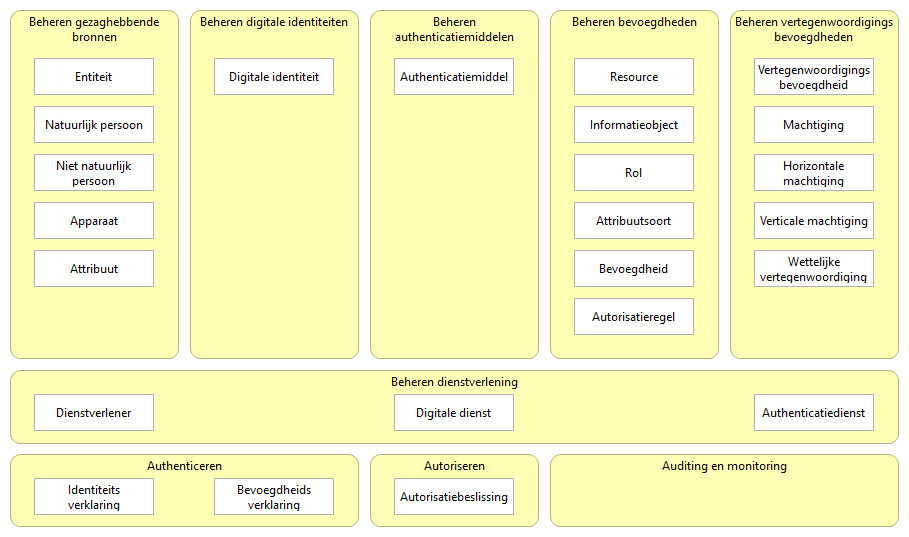
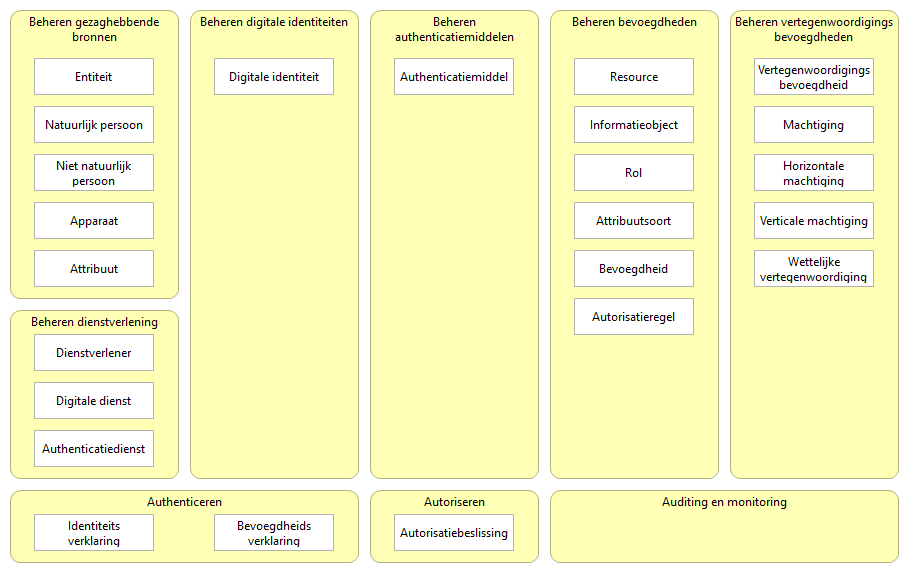
herschikking n.a.v. werksessie 13 december 2023

diff --git a/docs/id-3b66eec68cbc4ed8a552deca4e788391/views/id-d24214a9135947e980983cea632143d2.html b/docs/id-3b66eec68cbc4ed8a552deca4e788391/views/id-d24214a9135947e980983cea632143d2.html
@@ -39,26 +39,26 @@
 				  				<area shape="rect" coords="754,106,874,143" href="../elements/id-906f182647604ffc90107fdb1c8d46de.html"  target="element">
 				  				<area shape="rect" coords="754,154,874,191" href="../elements/id-145f9d6a34d947bda142eefaaf08c5ed.html"  target="element">
 
-				  		<area shape="rect" coords="730,10,899,359" href="../elements/id-c5998016874b4a3f9a80d62f09af3f33.html"  target="element">
-				  				<area shape="rect" coords="754,394,874,431" href="../elements/id-b176e501216a411aab3a570774c04761.html"  target="element">
-				  				<area shape="rect" coords="34,394,154,431" href="../elements/id-c266e0540ad64714932a780fe9e74037.html"  target="element">
-				  				<area shape="rect" coords="394,394,514,431" href="../elements/id-d128055e2a98447ea02185273849dac9.html"  target="element">
+				  		<area shape="rect" coords="730,10,899,479" href="../elements/id-c5998016874b4a3f9a80d62f09af3f33.html"  target="element">
+				  				<area shape="rect" coords="34,430,154,467" href="../elements/id-b176e501216a411aab3a570774c04761.html"  target="element">
+				  				<area shape="rect" coords="34,334,154,371" href="../elements/id-c266e0540ad64714932a780fe9e74037.html"  target="element">
+				  				<area shape="rect" coords="34,382,154,419" href="../elements/id-d128055e2a98447ea02185273849dac9.html"  target="element">
 
-				  		<area shape="rect" coords="10,370,899,444" href="../elements/id-256454e9e1434b858b4214c65b1cb3ab.html"  target="element">
+				  		<area shape="rect" coords="10,310,179,479" href="../elements/id-256454e9e1434b858b4214c65b1cb3ab.html"  target="element">
 				  				<area shape="rect" coords="34,202,154,239" href="../elements/id-159f656f2b5a479caf1624304c5bfe25.html"  target="element">
 				  				<area shape="rect" coords="34,154,154,191" href="../elements/id-202b003ac7d149efbd8a7248b58b744f.html"  target="element">
 				  				<area shape="rect" coords="34,106,154,143" href="../elements/id-b9b65d81740f41ce80c178d740b5dafa.html"  target="element">
 				  				<area shape="rect" coords="34,58,154,95" href="../elements/id-797830dc4f51491caf773ed85703e466.html"  target="element">
 				  				<area shape="rect" coords="34,250,154,287" href="../elements/id-d766d65c0ea14ecc9e01f99938d0b61b.html"  target="element">
 
-				  		<area shape="rect" coords="10,10,179,359" href="../elements/id-9786d6dbbd44482c97d2ac83bf79bd38.html"  target="element">
-				  				<area shape="rect" coords="394,478,514,515" href="../elements/id-0e6a68545b2d470d841b82aa5e05d4a5.html"  target="element">
+				  		<area shape="rect" coords="10,10,179,299" href="../elements/id-9786d6dbbd44482c97d2ac83bf79bd38.html"  target="element">
+				  				<area shape="rect" coords="394,514,514,551" href="../elements/id-0e6a68545b2d470d841b82aa5e05d4a5.html"  target="element">
 
-				  		<area shape="rect" coords="370,454,539,527" href="../elements/id-b750feb34d9c40588f9443c33145b59e.html"  target="element">
+				  		<area shape="rect" coords="370,490,539,563" href="../elements/id-b750feb34d9c40588f9443c33145b59e.html"  target="element">
 				  				<area shape="rect" coords="214,58,334,95" href="../elements/id-9e14841bf7a34845a4465fb9aa96cc53.html"  target="element">
 
-				  		<area shape="rect" coords="190,10,359,359" href="../elements/id-079caeb56ec2440cad449a57741e2837.html"  target="element">
-				  		<area shape="rect" coords="550,454,899,527" href="../elements/id-89cae607ed114aa9b258920260a4499c.html"  target="element">
+				  		<area shape="rect" coords="190,10,359,479" href="../elements/id-079caeb56ec2440cad449a57741e2837.html"  target="element">
+				  		<area shape="rect" coords="550,490,899,563" href="../elements/id-89cae607ed114aa9b258920260a4499c.html"  target="element">
 				  				<area shape="rect" coords="574,250,694,287" href="../elements/id-6ed7f3d944764c60a45fe6780a041a42.html"  target="element">
 				  				<area shape="rect" coords="574,202,694,239" href="../elements/id-7417b19f5c21447d8bf281baf4315b20.html"  target="element">
 				  				<area shape="rect" coords="574,154,694,191" href="../elements/id-4d32e4b7ef9c4a85acfa2c562ad218d2.html"  target="element">
@@ -66,14 +66,14 @@
 				  				<area shape="rect" coords="574,58,694,95" href="../elements/id-276320a6bad14e10a39ac2bcfcd13178.html"  target="element">
 				  				<area shape="rect" coords="574,298,694,335" href="../elements/id-7a15da44f51b45d0b7b2d1449ea8def3.html"  target="element">
 
-				  		<area shape="rect" coords="550,10,719,359" href="../elements/id-83db5a52a2914474a04a7152fa9d12e0.html"  target="element">
-				  				<area shape="rect" coords="214,478,334,515" href="../elements/id-1cb3ac18cb83432ebe33dacfbd3d2832.html"  target="element">
-				  				<area shape="rect" coords="34,478,154,515" href="../elements/id-f51d4497b87b4751842effe518b903d5.html"  target="element">
+				  		<area shape="rect" coords="550,10,719,479" href="../elements/id-83db5a52a2914474a04a7152fa9d12e0.html"  target="element">
+				  				<area shape="rect" coords="214,514,334,551" href="../elements/id-1cb3ac18cb83432ebe33dacfbd3d2832.html"  target="element">
+				  				<area shape="rect" coords="34,514,154,551" href="../elements/id-f51d4497b87b4751842effe518b903d5.html"  target="element">
 
-				  		<area shape="rect" coords="10,454,359,527" href="../elements/id-71518055a4194c55844b0ed040dacbe2.html"  target="element">
+				  		<area shape="rect" coords="10,490,359,563" href="../elements/id-71518055a4194c55844b0ed040dacbe2.html"  target="element">
 				  				<area shape="rect" coords="394,58,514,95" href="../elements/id-4145089decc343f1b8a35540703eb738.html"  target="element">
 
-				  		<area shape="rect" coords="370,10,539,359" href="../elements/id-fe587c1bae3c453285eccb764194ced3.html"  target="element">
+				  		<area shape="rect" coords="370,10,539,479" href="../elements/id-fe587c1bae3c453285eccb764194ced3.html"  target="element">
 
 			   </map>
 

diff --git a/docs/id-3b66eec68cbc4ed8a552deca4e788391/views/id-f14d78e817cf494cabe940d8c59f8a4e.html b/docs/id-3b66eec68cbc4ed8a552deca4e788391/views/id-f14d78e817cf494cabe940d8c59f8a4e.html
@@ -34,24 +34,24 @@
 			   <img class="diagram" src="../images/id-f14d78e817cf494cabe940d8c59f8a4e.png" alt="Functiemodel met standaarden" usemap="#id-f14d78e817cf494cabe940d8c59f8a4emap"/>
 			   <map name="id-f14d78e817cf494cabe940d8c59f8a4emap">
 				  		<area shape="rect" coords="778,10,959,419" href="../elements/id-c5998016874b4a3f9a80d62f09af3f33.html"  target="element">
-				  		<area shape="rect" coords="10,430,959,540" href="../elements/id-256454e9e1434b858b4214c65b1cb3ab.html"  target="element">
-				  		<area shape="rect" coords="10,10,191,419" href="../elements/id-9786d6dbbd44482c97d2ac83bf79bd38.html"  target="element">
-				  		<area shape="rect" coords="394,550,574,899" href="../elements/id-b750feb34d9c40588f9443c33145b59e.html"  target="element">
+				  		<area shape="rect" coords="10,226,191,419" href="../elements/id-256454e9e1434b858b4214c65b1cb3ab.html"  target="element">
+				  		<area shape="rect" coords="10,10,191,215" href="../elements/id-9786d6dbbd44482c97d2ac83bf79bd38.html"  target="element">
+				  		<area shape="rect" coords="395,430,575,779" href="../elements/id-b750feb34d9c40588f9443c33145b59e.html"  target="element">
 				  				<area shape="rect" coords="226,118,346,173" href="../elements/id-ea96d55372da4381a76adfcfeb4e7a69.html"  target="element">
 				  				<area shape="rect" coords="226,46,346,101" href="../elements/id-d195120a84814ba88a274e8402d2bf19.html"  target="element">
 
 				  		<area shape="rect" coords="202,10,383,419" href="../elements/id-079caeb56ec2440cad449a57741e2837.html"  target="element">
-				  		<area shape="rect" coords="586,550,958,899" href="../elements/id-89cae607ed114aa9b258920260a4499c.html"  target="element">
+				  		<area shape="rect" coords="587,430,959,779" href="../elements/id-89cae607ed114aa9b258920260a4499c.html"  target="element">
 				  		<area shape="rect" coords="586,10,767,419" href="../elements/id-83db5a52a2914474a04a7152fa9d12e0.html"  target="element">
-				  				<area shape="rect" coords="226,730,346,785" href="../elements/id-7470e5e65f3d4f208fe8a0f4f541ffe9.html"  target="element">
-				  				<area shape="rect" coords="46,730,166,785" href="../elements/id-b2cd04660195460bb1efd59d273eb609.html"  target="element">
-				  				<area shape="rect" coords="46,802,166,857" href="../elements/id-ea960156be254aee8b241e6e79f30d8c.html"  target="element">
-				  				<area shape="rect" coords="46,586,166,641" href="../elements/id-cbfc2e66e7a241e9a85294c05067f4fc.html"  target="element">
-				  				<area shape="rect" coords="46,658,166,713" href="../elements/id-67f687b1591741afbec97c61e754694b.html"  target="element">
-				  				<area shape="rect" coords="226,586,346,641" href="../elements/id-cce501616f9d4d9e95e14f6e725098b5.html"  target="element">
-				  				<area shape="rect" coords="226,658,346,713" href="../elements/id-5d2511feb7e7472d93d2e0db27457b7e.html"  target="element">
+				  				<area shape="rect" coords="227,610,347,665" href="../elements/id-7470e5e65f3d4f208fe8a0f4f541ffe9.html"  target="element">
+				  				<area shape="rect" coords="47,610,167,665" href="../elements/id-b2cd04660195460bb1efd59d273eb609.html"  target="element">
+				  				<area shape="rect" coords="47,682,167,737" href="../elements/id-ea960156be254aee8b241e6e79f30d8c.html"  target="element">
+				  				<area shape="rect" coords="47,466,167,521" href="../elements/id-cbfc2e66e7a241e9a85294c05067f4fc.html"  target="element">
+				  				<area shape="rect" coords="47,538,167,593" href="../elements/id-67f687b1591741afbec97c61e754694b.html"  target="element">
+				  				<area shape="rect" coords="227,466,347,521" href="../elements/id-cce501616f9d4d9e95e14f6e725098b5.html"  target="element">
+				  				<area shape="rect" coords="227,538,347,593" href="../elements/id-5d2511feb7e7472d93d2e0db27457b7e.html"  target="element">
 
-				  		<area shape="rect" coords="10,550,382,899" href="../elements/id-71518055a4194c55844b0ed040dacbe2.html"  target="element">
+				  		<area shape="rect" coords="11,430,383,779" href="../elements/id-71518055a4194c55844b0ed040dacbe2.html"  target="element">
 				  				<area shape="rect" coords="418,118,538,173" href="../elements/id-9ce6a7b4ca1f4ab5a357b87721bfe527.html"  target="element">
 				  				<area shape="rect" coords="418,46,538,101" href="../elements/id-8bfadaec74214885b2cfe62b7eb1f86c.html"  target="element">
 
